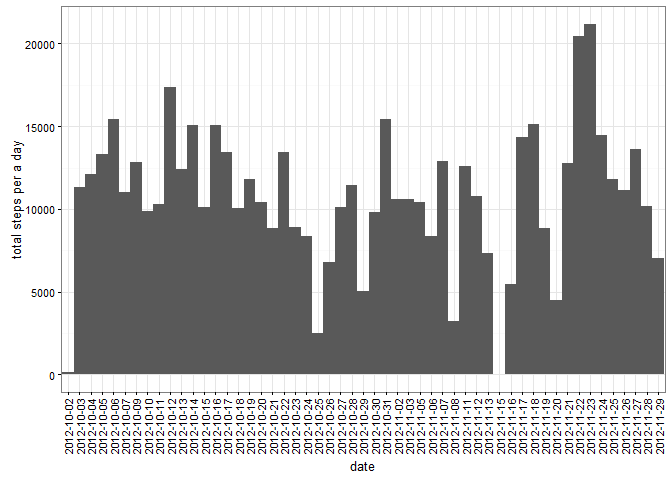
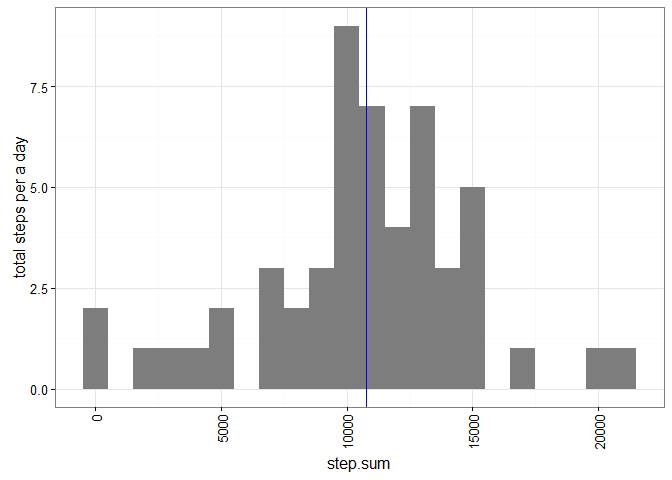
Second commit

diff --git a/PA1_template.html b/PA1_template.html
@@ -187,16 +187,26 @@ $(document).ready(function () {
 </ol>
 <pre class="r"><code>  require(ggplot2)</code></pre>
 <pre><code>## Loading required package: ggplot2</code></pre>
-<pre class="r"><code>  p&lt;-ggplot(data.no.miss.by.date,aes(date,step.sum)) + geom_bar(stat=&quot;identity&quot;,width=1) + theme_bw(base_size=10)
-  p&lt;-p+ theme(axis.text.x = element_text(angle = 90, hjust = 1,vjust=0.5)) + ylab(&quot;total steps per a day&quot;)
-  p </code></pre>
[1 lines of base64/hex data omitted]
-<ol start="2" style="list-style-type: decimal">
-<li>What is mean total number of steps taken per day</li>
-</ol>
-<pre class="r"><code>  ## calculate the mean and median.
+<pre class="r"><code>  ## calculate median and mean for next question.
+  
   data.mean&lt;-mean(data.no.miss.by.date$step.sum)
-  data.median&lt;-median(data.no.miss.by.date$step.sum)</code></pre>
+  data.median&lt;-median(data.no.miss.by.date$step.sum)
+
+  
+  # make Histogram
+  
+  p&lt;-ggplot(data.no.miss.by.date,aes(step.sum)) + geom_histogram(binwidth=1000,fill=&quot;grey49&quot;) + theme_bw(base_size=12)
+  p&lt;-p+ theme(axis.text.x = element_text(angle = 90, hjust = 1,vjust=0.5)) + ylab(&quot;total steps per a day&quot;)
+  p&lt;-p+geom_vline(xintercept = data.mean,colour=&quot;red&quot;)
+  p&lt;-p+geom_vline(xintercept = data.median,colour=&quot;Blue&quot;)
+  p</code></pre>
[1 lines of base64/hex data omitted]
+<ol start="2" style="list-style-type: decimal">
+<li>What is mean total number of steps taken per day.</li>
+</ol>
+<pre class="r"><code>  ## mean and median is calculated above chunk.
+  # data.mean &lt;-mean(data.no.miss.by.date$step.sum)
+  # data.median &lt;-median(data.no.miss.by.date$step.sum)</code></pre>
 <ul>
 <li>the mean of steps taken per a day is 1.076618910^{4}.</li>
 <li>the median of steps taken per a day is 10765.</li>
@@ -230,9 +240,20 @@ $(document).ready(function () {
   sum(nacols)</code></pre>
 <pre><code>## [1] 2304</code></pre>
 <ol start="2" style="list-style-type: decimal">
-<li>Devise a strategy for filling in all of the missing values in the dataset. The strategy does not need to be sophisticated. For example, you could use the mean/median for that day, or the mean for that 5-minute interval, etc.</li>
+<li>Devise a strategy for filling in all of the missing values in the dataset.</li>
 </ol>
-<pre class="r"><code>  # get the number of intervals
+<p>The strategy does not need to be sophisticated. For example, you could use the mean/median for that day, or the mean for that 5-minute interval, etc.</p>
+<pre><code>1. get the number of intervals per a day (variable : numInterval the value is 288.).
+
+2. get indexes of NA values.
+
+3. indexes redirects to specific mean of step taken in specific time interval (2nd plot).
+    
+4. fill the missing steps from mean of mean of step taken in specific time interval</code></pre>
+<ol start="3" style="list-style-type: decimal">
+<li>Create a new dataset that is equal to the original dataset but with the missing data filled in.</li>
+</ol>
+<pre class="r"><code> # get the number of intervals
   numInterval&lt;-dim(data.no.miss.by.interval)[1]
   
   new.impute.mean &lt;- data
@@ -242,14 +263,13 @@ $(document).ready(function () {
   na.index&lt;-ifelse(na.index==0,numInterval,na.index)
   
   # compare the length of two vector
-  
   length(na.index)==sum(nacols)</code></pre>
 <pre><code>## [1] TRUE</code></pre>
-<pre class="r"><code>  # now we can impute missing values using na.index. </code></pre>
-<ol start="3" style="list-style-type: decimal">
-<li>Create a new dataset that is equal to the original dataset but with the missing data filled in.</li>
-</ol>
-<pre class="r"><code>  new.impute.mean[nacols,]$steps &lt;- data.no.miss.by.interval[na.index,]$mean
+<pre class="r"><code>  # now we can impute missing values using na.index. 
+  
+  
+  
+    new.impute.mean[nacols,]$steps &lt;- data.no.miss.by.interval[na.index,]$mean
   
   # check missing
   sum(is.na(new.impute.mean))</code></pre>
@@ -263,10 +283,12 @@ $(document).ready(function () {
 <pre class="r"><code>  data.no.miss.by.date.impute&lt;-new.impute.mean %&gt;% group_by(date) %&gt;% summarize(step.sum=sum(steps))
 
   require(ggplot2)
-  p&lt;-ggplot(data.no.miss.by.date.impute,aes(date,step.sum)) + geom_bar(stat=&quot;identity&quot;,width=1) + theme_bw(base_size=10)
-  p&lt;-p+ theme(axis.text.x = element_text(angle = 90, hjust = 1,vjust=.5)) + xlab(&quot;total steps taken&quot;)
+  p&lt;-ggplot(data.no.miss.by.date.impute,aes(step.sum)) + geom_histogram(binwidth=1000,fill=&quot;grey49&quot;) + theme_bw(base_size=12)
+  p&lt;-p+ theme(axis.text.x = element_text(angle = 90, hjust = 1,vjust=0.5)) + ylab(&quot;total steps per a day&quot;)
+  p&lt;-p+geom_vline(xintercept = data.mean,colour=&quot;red&quot;)
+  p&lt;-p+geom_vline(xintercept = data.median,colour=&quot;Blue&quot;)
   p</code></pre>
[2 lines of base64/hex data omitted]
 <pre class="r"><code>  ## calculate the mean and median.
   data.mean&lt;-mean(data.no.miss.by.date.impute$step.sum)
   data.median&lt;-median(data.no.miss.by.date.impute$step.sum)</code></pre>
